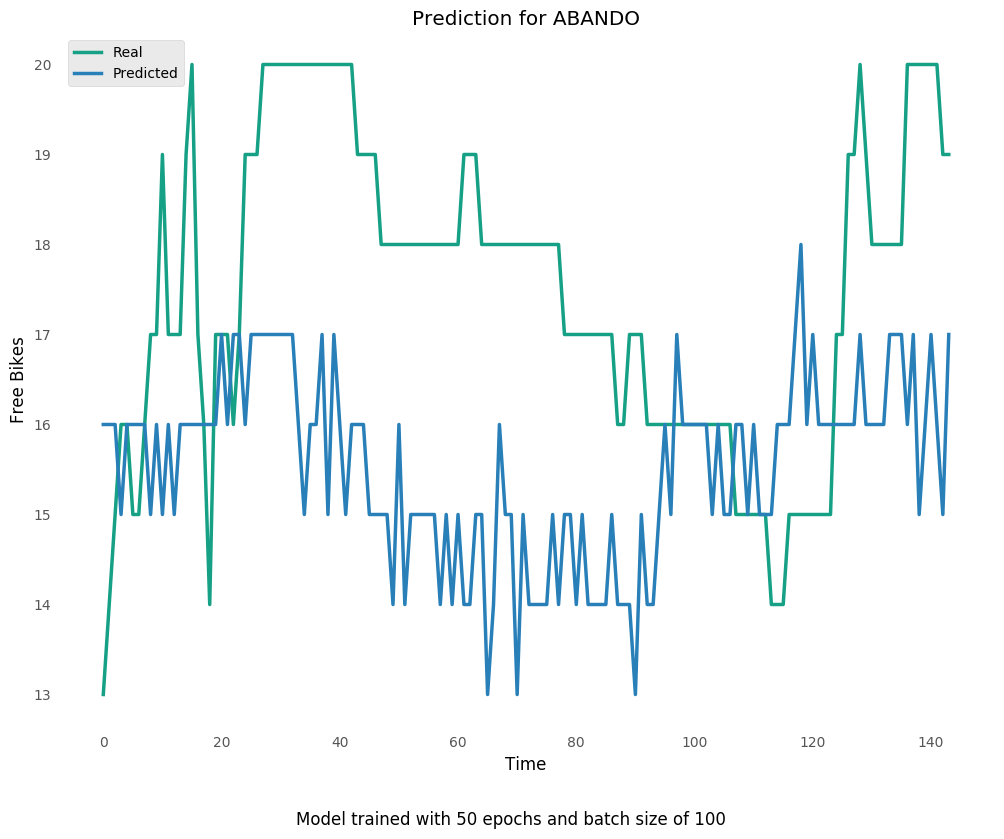
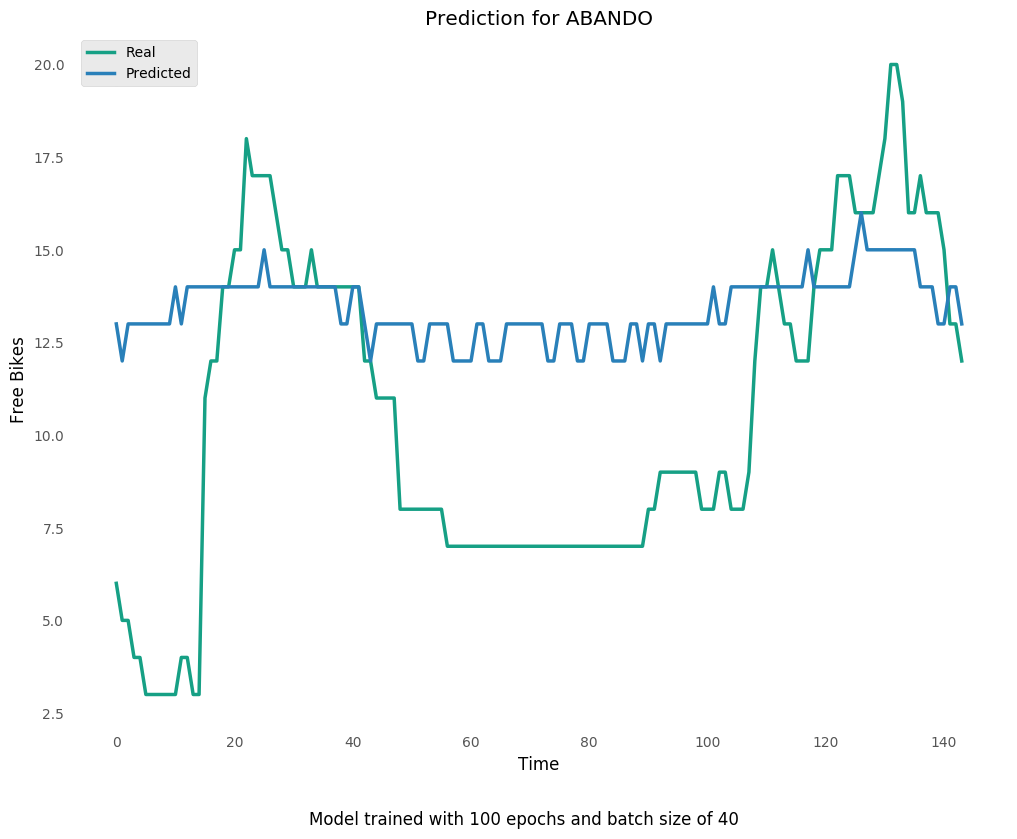
Updated with a new test

diff --git a/main.py b/main.py
@@ -20,9 +20,7 @@ dato = data.supervised_learning()
 
 data.split_sets(0.6, 0.38, 0.02)
 
-m = Neural_Model(50, 100)
-m.fit_model()	
-
-# print("\a")
+m = Neural_Model(100, 40)
+m.fit_model()
 
 os.system("clear; mdv README.md")

diff --git a/README.md b/README.md
@@ -165,37 +165,37 @@ Los datos son recogidos cada 10' en el servidor y puede que en algunos casos no 
 
 | Estación | Missing Samples | Missing Whole Days
 | --- | --- | --- |
- | ABANDO | 113 | 0 | 
- | AMETZOLA | 113 | 0 | 
- | ANSELMO CLAVE | 113 | 0 | 
- | AREILTZA | 113 | 0 | 
- | ARRIAGA | 113 | 0 | 
- | ASKATASUNA | 113 | 0 | 
- | ASTILLERO | 113 | 0 | 
- | AYUNTAMIENTO | 113 | 0 | 
- | BLAS OTERO | 113 | 0 | 
- | BOLUETA | 113 | 0 | 
- | CORAZÓN MARIA | 113 | 0 | 
- | EGAÑA | 113 | 0 | 
- | EGUILLOR | 113 | 0 | 
- | EPALZA | 113 | 0 | 
- | ESTRADA CALEROS | 113 | 0 | 
- | ETXEBARRIA | 113 | 0 | 
- | GABRIEL ARESTI | 113 | 0 | 
- | HEROS | 113 | 0 | 
- | IBAIZABAL | 113 | 0 | 
- | INDAUTXU | 113 | 0 | 
- | KARMELO | 113 | 0 | 
- | LEIZAOLA | 113 | 0 | 
- | LEVANTE | 113 | 0 | 
- | OLABEAGA | 113 | 0 | 
- | OTXARKOAGA | 113 | 0 | 
- | PLAZA ENCARNACIÓN | 113 | 0 | 
- | REKALDE | 113 | 0 | 
- | SABINO ARANA | 113 | 0 | 
- | SAN PEDRO | 113 | 0 | 
- | SARRIKO | 113 | 0 | 
- | TERMIBUS | 113 | 0 | 
+ | ABANDO | 189 | 0 | 
+ | AMETZOLA | 189 | 0 | 
+ | ANSELMO CLAVE | 189 | 0 | 
+ | AREILTZA | 189 | 0 | 
+ | ARRIAGA | 189 | 0 | 
+ | ASKATASUNA | 189 | 0 | 
+ | ASTILLERO | 189 | 0 | 
+ | AYUNTAMIENTO | 189 | 0 | 
+ | BLAS OTERO | 189 | 0 | 
+ | BOLUETA | 189 | 0 | 
+ | CORAZÓN MARIA | 189 | 0 | 
+ | EGAÑA | 189 | 0 | 
+ | EGUILLOR | 189 | 0 | 
+ | EPALZA | 189 | 0 | 
+ | ESTRADA CALEROS | 189 | 0 | 
+ | ETXEBARRIA | 189 | 0 | 
+ | GABRIEL ARESTI | 189 | 0 | 
+ | HEROS | 189 | 0 | 
+ | IBAIZABAL | 189 | 0 | 
+ | INDAUTXU | 189 | 0 | 
+ | KARMELO | 189 | 0 | 
+ | LEIZAOLA | 189 | 0 | 
+ | LEVANTE | 189 | 0 | 
+ | OLABEAGA | 189 | 0 | 
+ | OTXARKOAGA | 189 | 0 | 
+ | PLAZA ENCARNACIÓN | 189 | 0 | 
+ | REKALDE | 189 | 0 | 
+ | SABINO ARANA | 189 | 0 | 
+ | SAN PEDRO | 189 | 0 | 
+ | SARRIKO | 189 | 0 | 
+ | TERMIBUS | 189 | 0 | 
 
 
 
@@ -204,11 +204,11 @@ Los datos son recogidos cada 10' en el servidor y puede que en algunos casos no 
 
 | Values | datetime | time | weekday | station | free_bikes |
 | --- | --- | --- | --- | --- | --- |
-| Minimum Values | -17.421052631578945 | 0.0 | 0.0 | 0.0 | 0.0 | 
-| Data Max | 350.0 | 143.0 | 7.0 | 30.0 | 42.0 | 
-| Data Min | 331.0 | 0.0 | 0.0 | 0.0 | 0.0 | 
-| Data Range | 19.0 | 143.0 | 7.0 | 30.0 | 42.0 | 
-| Scale | 0.05263157894736842 | 0.006993006993006993 | 0.14285714285714285 | 0.03333333333333333 | 0.023809523809523808 | 
+| Minimum Values | -0.0027472527472527475 | 0.0 | 0.0 | 0.0 | 0.0 | 
+| Data Max | 365.0 | 143.0 | 7.0 | 30.0 | 42.0 | 
+| Data Min | 1.0 | 0.0 | 0.0 | 0.0 | 0.0 | 
+| Data Range | 364.0 | 143.0 | 7.0 | 30.0 | 42.0 | 
+| Scale | 0.0027472527472527475 | 0.006993006993006993 | 0.14285714285714285 | 0.03333333333333333 | 0.023809523809523808 | 
 
 
 ## Supervised Learning
@@ -216,37 +216,37 @@ Los datos son recogidos cada 10' en el servidor y puede que en algunos casos no 
 
 | Station | Days | 
 | --- | --- |
-| ABANDO | 18 | 
-| AMETZOLA | 18 | 
-| ANSELMO CLAVE | 18 | 
-| AREILTZA | 18 | 
-| ARRIAGA | 18 | 
-| ASKATASUNA | 18 | 
-| ASTILLERO | 18 | 
-| AYUNTAMIENTO | 18 | 
-| BLAS OTERO | 18 | 
-| BOLUETA | 18 | 
-| CORAZÓN MARIA | 18 | 
-| EGAÑA | 18 | 
-| EGUILLOR | 18 | 
-| EPALZA | 18 | 
-| ESTRADA CALEROS | 18 | 
-| ETXEBARRIA | 18 | 
-| GABRIEL ARESTI | 18 | 
-| HEROS | 18 | 
-| IBAIZABAL | 18 | 
-| INDAUTXU | 18 | 
-| KARMELO | 18 | 
-| LEIZAOLA | 18 | 
-| LEVANTE | 18 | 
-| OLABEAGA | 18 | 
-| OTXARKOAGA | 18 | 
-| PLAZA ENCARNACIÓN | 18 | 
-| REKALDE | 18 | 
-| SABINO ARANA | 18 | 
-| SAN PEDRO | 18 | 
-| SARRIKO | 18 | 
-| TERMIBUS | 18 | 
+| ABANDO | 34 | 
+| AMETZOLA | 34 | 
+| ANSELMO CLAVE | 34 | 
+| AREILTZA | 34 | 
+| ARRIAGA | 34 | 
+| ASKATASUNA | 34 | 
+| ASTILLERO | 34 | 
+| AYUNTAMIENTO | 34 | 
+| BLAS OTERO | 34 | 
+| BOLUETA | 34 | 
+| CORAZÓN MARIA | 34 | 
+| EGAÑA | 34 | 
+| EGUILLOR | 34 | 
+| EPALZA | 34 | 
+| ESTRADA CALEROS | 34 | 
+| ETXEBARRIA | 34 | 
+| GABRIEL ARESTI | 34 | 
+| HEROS | 34 | 
+| IBAIZABAL | 34 | 
+| INDAUTXU | 34 | 
+| KARMELO | 34 | 
+| LEIZAOLA | 34 | 
+| LEVANTE | 34 | 
+| OLABEAGA | 34 | 
+| OTXARKOAGA | 34 | 
+| PLAZA ENCARNACIÓN | 34 | 
+| REKALDE | 34 | 
+| SABINO ARANA | 34 | 
+| SAN PEDRO | 34 | 
+| SARRIKO | 34 | 
+| TERMIBUS | 34 | 
 
 
 ## Split datasets
@@ -255,9 +255,9 @@ Los datos son recogidos cada 10' en el servidor y puede que en algunos casos no 
 
 | Dataset | Percentage | Samples |
 | --- | --- | --- |
-| Training | 60.0 | 334 | 
-| Validation | 38.0 | 212 | 
-| Test | 2.0 | 11 | 
+| Training | 60.0 | 632 | 
+| Validation | 38.0 | 400 | 
+| Test | 2.0 | 21 | 
 
 
 ## Neural Network Training
@@ -265,8 +265,8 @@ Los datos son recogidos cada 10' en el servidor y puede que en algunos casos no 
 
 ![Model Shape](model/model.png)
 
-* 50 epochs
-* 100 batch size
+* 100 epochs
+* 40 batch size
 
 ![Training Acc](plots/training_acc.png)
 
@@ -274,9 +274,12 @@ Los datos son recogidos cada 10' en el servidor y puede que en algunos casos no 
 
 ![Training MAPE](plots/training_mape.png)
 
+![Training MSE](plots/training_mse.png)
+
 ![Prediction Sample 1](plots/1.png)
 
 ![Prediction Sample 2](plots/2.png)
 
 ![Prediction Sample 3](plots/3.png)
 
+More prediction samples in [plots/](https://github.com/javierdemartin/neural-bikes/tree/master/plots).
